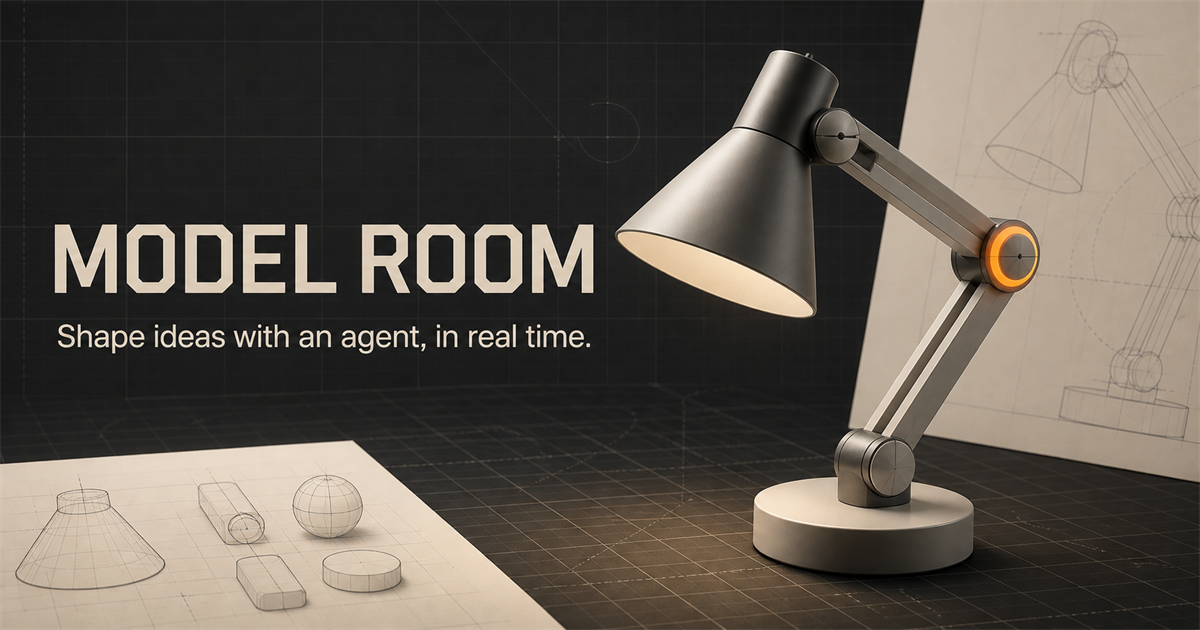
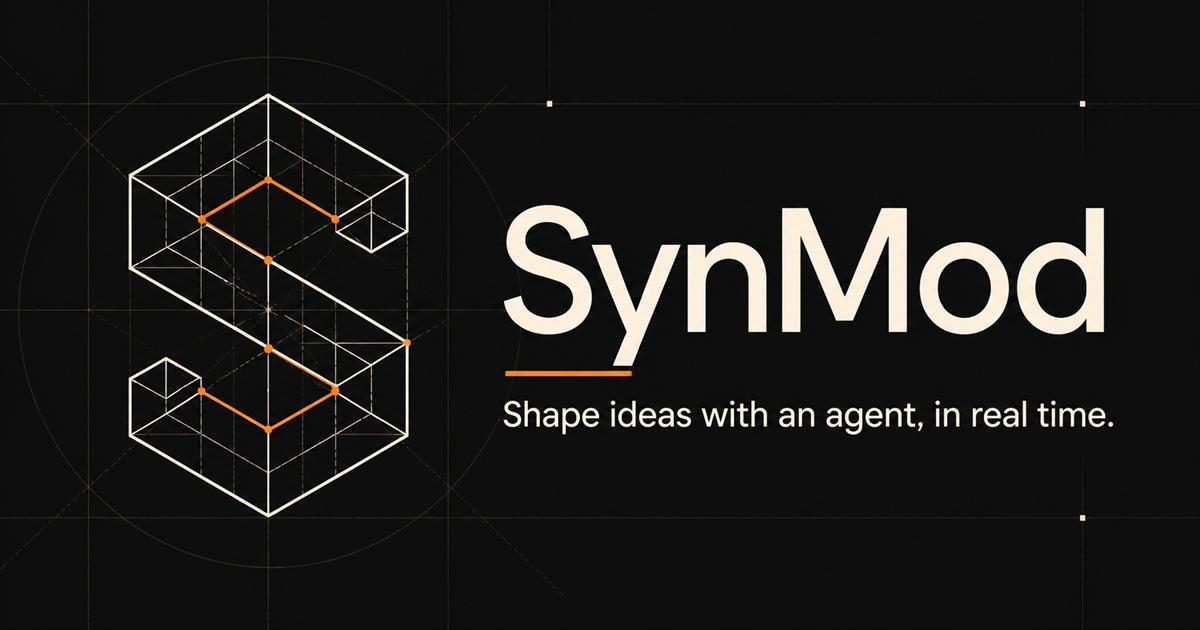
Rebrand Model Room as SynMod

diff --git a/lib/webmcp.ts b/lib/webmcp.ts
@@ -239,7 +239,7 @@ export async function registerWebMcpTools() {
   useStudioStore.getState().setWebMcpStatus('checking');
   const controller = new AbortController();
   const definitions = [
-    tool('get_scene_summary', 'Read the current Model Room project, revision, hierarchy, parametric geometry, transforms, materials, Boolean features, and environment without changing it.', emptySchema, () => {
+    tool('get_scene_summary', 'Read the current SynMod project, revision, hierarchy, parametric geometry, transforms, materials, Boolean features, and environment without changing it.', emptySchema, () => {
       const state = useStudioStore.getState();
       const payload = { projectId: state.doc.projectId, title: state.doc.title, revision: state.doc.revision, readOnly: state.readOnly, objectCount: state.doc.objects.length, featureCount: state.doc.features.length, checkpointCount: state.doc.checkpoints.length, selection: state.selection, settings: state.doc.settings, objects: state.doc.objects.map(compactObjectSnapshot) };
       return { content: [{ type: 'text', text: JSON.stringify(payload) }], structuredContent: payload };
@@ -253,7 +253,7 @@ export async function registerWebMcpTools() {
       const compact = compactObjectSnapshot(object);
       return { content: [{ type: 'text', text: JSON.stringify(compact) }], structuredContent: compact };
     }, { readOnlyHint: true }),
-    tool('get_selection', 'Read the objects currently selected by the person in Model Room. This tool does not change the scene.', emptySchema, () => {
+    tool('get_selection', 'Read the objects currently selected by the person in SynMod. This tool does not change the scene.', emptySchema, () => {
       const state = useStudioStore.getState();
       const objects = state.selection.map(getObjectSnapshot).map(compactObjectSnapshot).filter(Boolean);
       const payload = { revision: state.doc.revision, selectedObjectIds: state.selection, objects };

diff --git a/components/model-room-preview.tsx b/components/model-room-preview.tsx
@@ -7,7 +7,6 @@ import {
   Box,
   Check,
   ChevronDown,
-  Circle,
   CircleDashed,
   CircleDot,
   Cone,
@@ -47,6 +46,7 @@ import {
 } from 'lucide-react';
 
 import { Badge } from '@/components/ui/badge';
+import { SynModMark } from '@/components/synmod-mark';
 import { Button } from '@/components/ui/button';
 import {
   DropdownMenu,
@@ -110,7 +110,7 @@ function FileActions() {
 
   return (
     <>
-      <input ref={fileInput} className="sr-only" type="file" accept=".json,.model-room.json,.glb,application/json,model/gltf-binary" onChange={onImport} />
+      <input ref={fileInput} className="sr-only" type="file" accept=".json,.synmod.json,.model-room.json,.glb,application/json,model/gltf-binary" onChange={onImport} />
       <Button variant="outline" size="sm" disabled={readOnly} onClick={() => fileInput.current?.click()}><Upload /> Import</Button>
       <DropdownMenu>
         <DropdownMenuTrigger render={<Button size="sm" />}>
@@ -566,8 +566,8 @@ function Header({ openLeft, openRight }: { openLeft: () => void; openRight: () =
   return (
     <header className="studio-header">
       <div className="brand-lockup">
-        <span className="brand-mark" aria-hidden="true"><Circle /></span>
-        <div><p className="brand-name">MODEL ROOM</p><p className="project-name">{doc.title} <span>·</span> {statusText}</p></div>
+        <span className="brand-mark"><SynModMark /></span>
+        <div><p className="brand-name">SynMod</p><p className="project-name">{doc.title} <span>·</span> {statusText}</p></div>
       </div>
       <div className="header-actions">
         <Button className="compact-panel-button left" variant="ghost" size="icon-sm" onClick={openLeft} aria-label="Open scene panel"><PanelLeft /></Button>

diff --git a/app/globals.css b/app/globals.css
@@ -61,11 +61,13 @@ button { color: inherit; }
 .studio-shell { height: 100dvh; min-width: 0; display: grid; grid-template-rows: 58px minmax(0, 1fr) 24px; background: #20211d; }
 .studio-header { display: flex; align-items: center; justify-content: space-between; padding: 0 14px; background: #f2f0e9; border-bottom: 1px solid #c7c4ba; }
 .brand-lockup, .header-actions { display: flex; align-items: center; }
-.brand-lockup { gap: 10px; }
-.brand-mark { width: 30px; height: 30px; display: grid; place-items: center; color: #f15722; border: 1px solid #2c2d28; border-radius: 50%; }
-.brand-mark svg { width: 13px; fill: currentColor; stroke-width: 1; }
+.brand-lockup { gap: 9px; }
+.brand-mark { width: 32px; height: 32px; display: grid; place-items: center; color: #f15722; background: #20211d; border: 1px solid #0f100d; border-radius: 6px; box-shadow: inset 0 0 0 1px rgba(255,255,255,.06); }
+.brand-mark svg { width: 23px; height: 23px; fill: none; stroke: currentColor; stroke-width: 1.25; stroke-linecap: round; stroke-linejoin: round; }
+.brand-mark .synmod-link { stroke: #f6f3ec; stroke-width: 1.75; }
+.brand-mark .synmod-joint { fill: #f6f3ec; stroke: #20211d; stroke-width: .8; }
 .brand-name, .project-name, .eyebrow { margin: 0; }
-.brand-name { font: 700 11px/1.15 var(--font-geist-mono); letter-spacing: .16em; }
+.brand-name { font: 750 12px/1.15 var(--font-geist-mono); letter-spacing: .08em; }
 .project-name { margin-top: 3px; color: #73746d; font-size: 11px; }
 .project-name span { padding: 0 3px; color: #aaa79f; }
 .header-actions { gap: 5px; }

diff --git a/app/layout.tsx b/app/layout.tsx
@@ -14,16 +14,19 @@ const geistMono = Geist_Mono({
 
 export const metadata: Metadata = {
   metadataBase: new URL('https://model-room.jquan287619461.chatgpt.site'),
-  title: 'Model Room — Shape ideas with an agent',
+  title: 'SynMod — Shape ideas with an agent',
   description: 'A WebMCP-powered 3D studio where you and an agent shape scenes together in real time.',
+  icons: {
+    icon: '/favicon.svg',
+  },
   openGraph: {
-    title: 'Model Room',
+    title: 'SynMod',
     description: 'Shape ideas with an agent, in real time.',
-    images: [{ url: '/og.png', width: 1200, height: 630, alt: 'Model Room 3D modeling studio' }],
+    images: [{ url: '/og.png', width: 1200, height: 630, alt: 'SynMod agentic 3D modeling studio' }],
   },
   twitter: {
     card: 'summary_large_image',
-    title: 'Model Room',
+    title: 'SynMod',
     description: 'Shape ideas with an agent, in real time.',
     images: ['/og.png'],
   },

diff --git a/lib/persistence.ts b/lib/persistence.ts
@@ -225,7 +225,7 @@ export async function saveLocalScene(doc: SceneDocument) {
 
 export function downloadJson(doc: SceneDocument) {
   const blob = new Blob([JSON.stringify(validateSceneDocument(doc), null, 2)], { type: 'application/json' });
-  downloadBlob(blob, `${safeFilename(doc.title)}.model-room.json`);
+  downloadBlob(blob, `${safeFilename(doc.title)}.synmod.json`);
 }
 
 export function downloadBlob(blob: Blob, filename: string) {
@@ -236,7 +236,7 @@ export function downloadBlob(blob: Blob, filename: string) {
 }
 
 export function safeFilename(value: string) {
-  return value.trim().replace(/[^a-z0-9-_]+/gi, '-').replace(/^-+|-+$/g, '').toLowerCase() || 'model-room-project';
+  return value.trim().replace(/[^a-z0-9-_]+/gi, '-').replace(/^-+|-+$/g, '').toLowerCase() || 'synmod-project';
 }
 
 export async function readJsonProject(file: File) {

diff --git a/components/synmod-mark.tsx b/components/synmod-mark.tsx
@@ -1,0 +1,23 @@
+type SynModMarkProps = {
+  className?: string;
+};
+
+export function SynModMark({ className }: SynModMarkProps) {
+  return (
+    <svg
+      aria-hidden="true"
+      className={className}
+      fill="none"
+      focusable="false"
+      viewBox="0 0 24 24"
+      xmlns="http://www.w3.org/2000/svg"
+    >
+      <path d="M2.5 5.5 8 2.5l5.5 3L8 8.5l-5.5-3Z" />
+      <path d="M2.5 5.5v5L8 13.5l5.5-3v-5M8 8.5v5" />
+      <path d="M10.5 13.5 16 10.5l5.5 3-5.5 3-5.5-3Z" />
+      <path d="M10.5 13.5v5l5.5 3 5.5-3v-5M16 16.5v5" />
+      <path className="synmod-link" d="M8 13.5h2.5" />
+      <circle className="synmod-joint" cx="9.25" cy="13.5" r="1.15" />
+    </svg>
+  );
+}

diff --git a/e2e/model-room.spec.ts b/e2e/model-room.spec.ts
@@ -43,6 +43,8 @@ async function expectOpaqueTopmostMenu(page: Page, itemName: string) {
 test('shows the primitive palette and all five Lamp Study outliner rows', async ({ page }) => {
   await page.goto('/');
 
+  await expect(page.getByText('SynMod', { exact: true })).toBeVisible();
+
   const palette = page.getByTestId('primitive-palette');
   await expect(palette).toBeVisible();
   await expect(palette.getByText('ADD PRIMITIVE')).toBeVisible();

diff --git a/README.md b/README.md
@@ -1,6 +1,6 @@
-# Model Room
+# SynMod
 
-Model Room is a desktop-first 3D collaboration studio for one person and a browser agent. People edit through a conventional modeling UI while ChatGPT/Codex uses page-registered WebMCP tools. Both paths share the same validated command layer, revision history, activity feed, autosave, and undo/redo stack.
+SynMod is a desktop-first 3D collaboration studio for one person and a browser agent. People edit through a conventional modeling UI while ChatGPT/Codex uses page-registered WebMCP tools. Both paths share the same validated command layer, revision history, activity feed, autosave, and undo/redo stack.
 
 The first visit opens an editable five-object **Lamp Study**. The app supports parametric boxes, spheres, cylinders, cones, and toruses; transforms and PBR materials; grouping; non-destructive Boolean operations; local checkpoints and branches; JSON/GLB import and export; viewport PNG export; environment lighting; and read-only links embedded entirely in the URL.
 
@@ -40,7 +40,7 @@ Pull requests and pushes run the same `npm run quality` gate in GitHub Actions. 
 
 Each registered tool has a human-readable title and the draft `readOnlyHint` and `untrustedContentHint` annotations. Execution callbacks accept `ToolExecuteCallbackOptions.signal`; cancelled calls reject before a synchronous mutation begins, and asynchronous sharing races against the signal. Results containing scene names, imported asset metadata, or other browser/user-supplied values are marked untrusted.
 
-High-impact delete, restore, undo, and redo calls require the exact current scene revision. This prevents stale agent intent from changing a scene that a person edited after the agent last inspected it. Delete, restore, and link-sharing tools also require an in-page browser confirmation; the host browser still performs its own invocation review. Model Room deliberately exposes no agent-accessible “clear everything” command.
+High-impact delete, restore, undo, and redo calls require the exact current scene revision. This prevents stale agent intent from changing a scene that a person edited after the agent last inspected it. Delete, restore, and link-sharing tools also require an in-page browser confirmation; the host browser still performs its own invocation review. SynMod deliberately exposes no agent-accessible “clear everything” command.
 
 ## Storage and privacy
 

diff --git a/docs/case-study.md b/docs/case-study.md
@@ -4,7 +4,7 @@
 
 Text-to-3D demos often hide either the modeling process or the model's state. A person can request a result, but cannot easily inspect the hierarchy, make a precise manual correction, or understand what the agent changed. Traditional browser modelers provide direct manipulation but usually do not expose a browser-native agent contract.
 
-Model Room treats collaboration as shared state rather than chat UI. The person works in the editor; the agent receives narrowly scoped tools from the page. Both act on the same document and history.
+SynMod treats collaboration as shared state rather than chat UI. The person works in the editor; the agent receives narrowly scoped tools from the page. Both act on the same document and history.
 
 ## Product and engineering decisions
 

diff --git a/docs/user-evidence.md b/docs/user-evidence.md
@@ -30,7 +30,7 @@ The Playwright suite now proves in a fresh browser context that:
 
 ## Hypotheses to validate next
 
-- People will understand that agent requests belong in the ChatGPT conversation beside the Site, not inside Model Room.
+- People will understand that agent requests belong in the ChatGPT conversation beside the Site, not inside SynMod.
 - Seeing agent actions in the activity feed and undo stack will improve confidence enough for iterative modeling.
 - Revision-guarded destructive calls and transaction previews will feel safe without adding excessive friction.
 - Designers will value procedural primitives/Booleans before they ask for topology-level editing.

diff --git a/docs/product-brief.md b/docs/product-brief.md
@@ -1,8 +1,8 @@
-# Model Room product brief
+# SynMod product brief
 
 ## Product promise
 
-**Shape ideas with an agent, in real time.** Model Room gives a person a legible 3D workspace and gives a browser agent a precise, inspectable tool surface. Every participant sees the same scene revision and can reverse the other's modeling operations.
+**Shape ideas with an agent, in real time.** SynMod gives a person a legible 3D workspace and gives a browser agent a precise, inspectable tool surface. Every participant sees the same scene revision and can reverse the other's modeling operations.
 
 ## Target user and job
 
